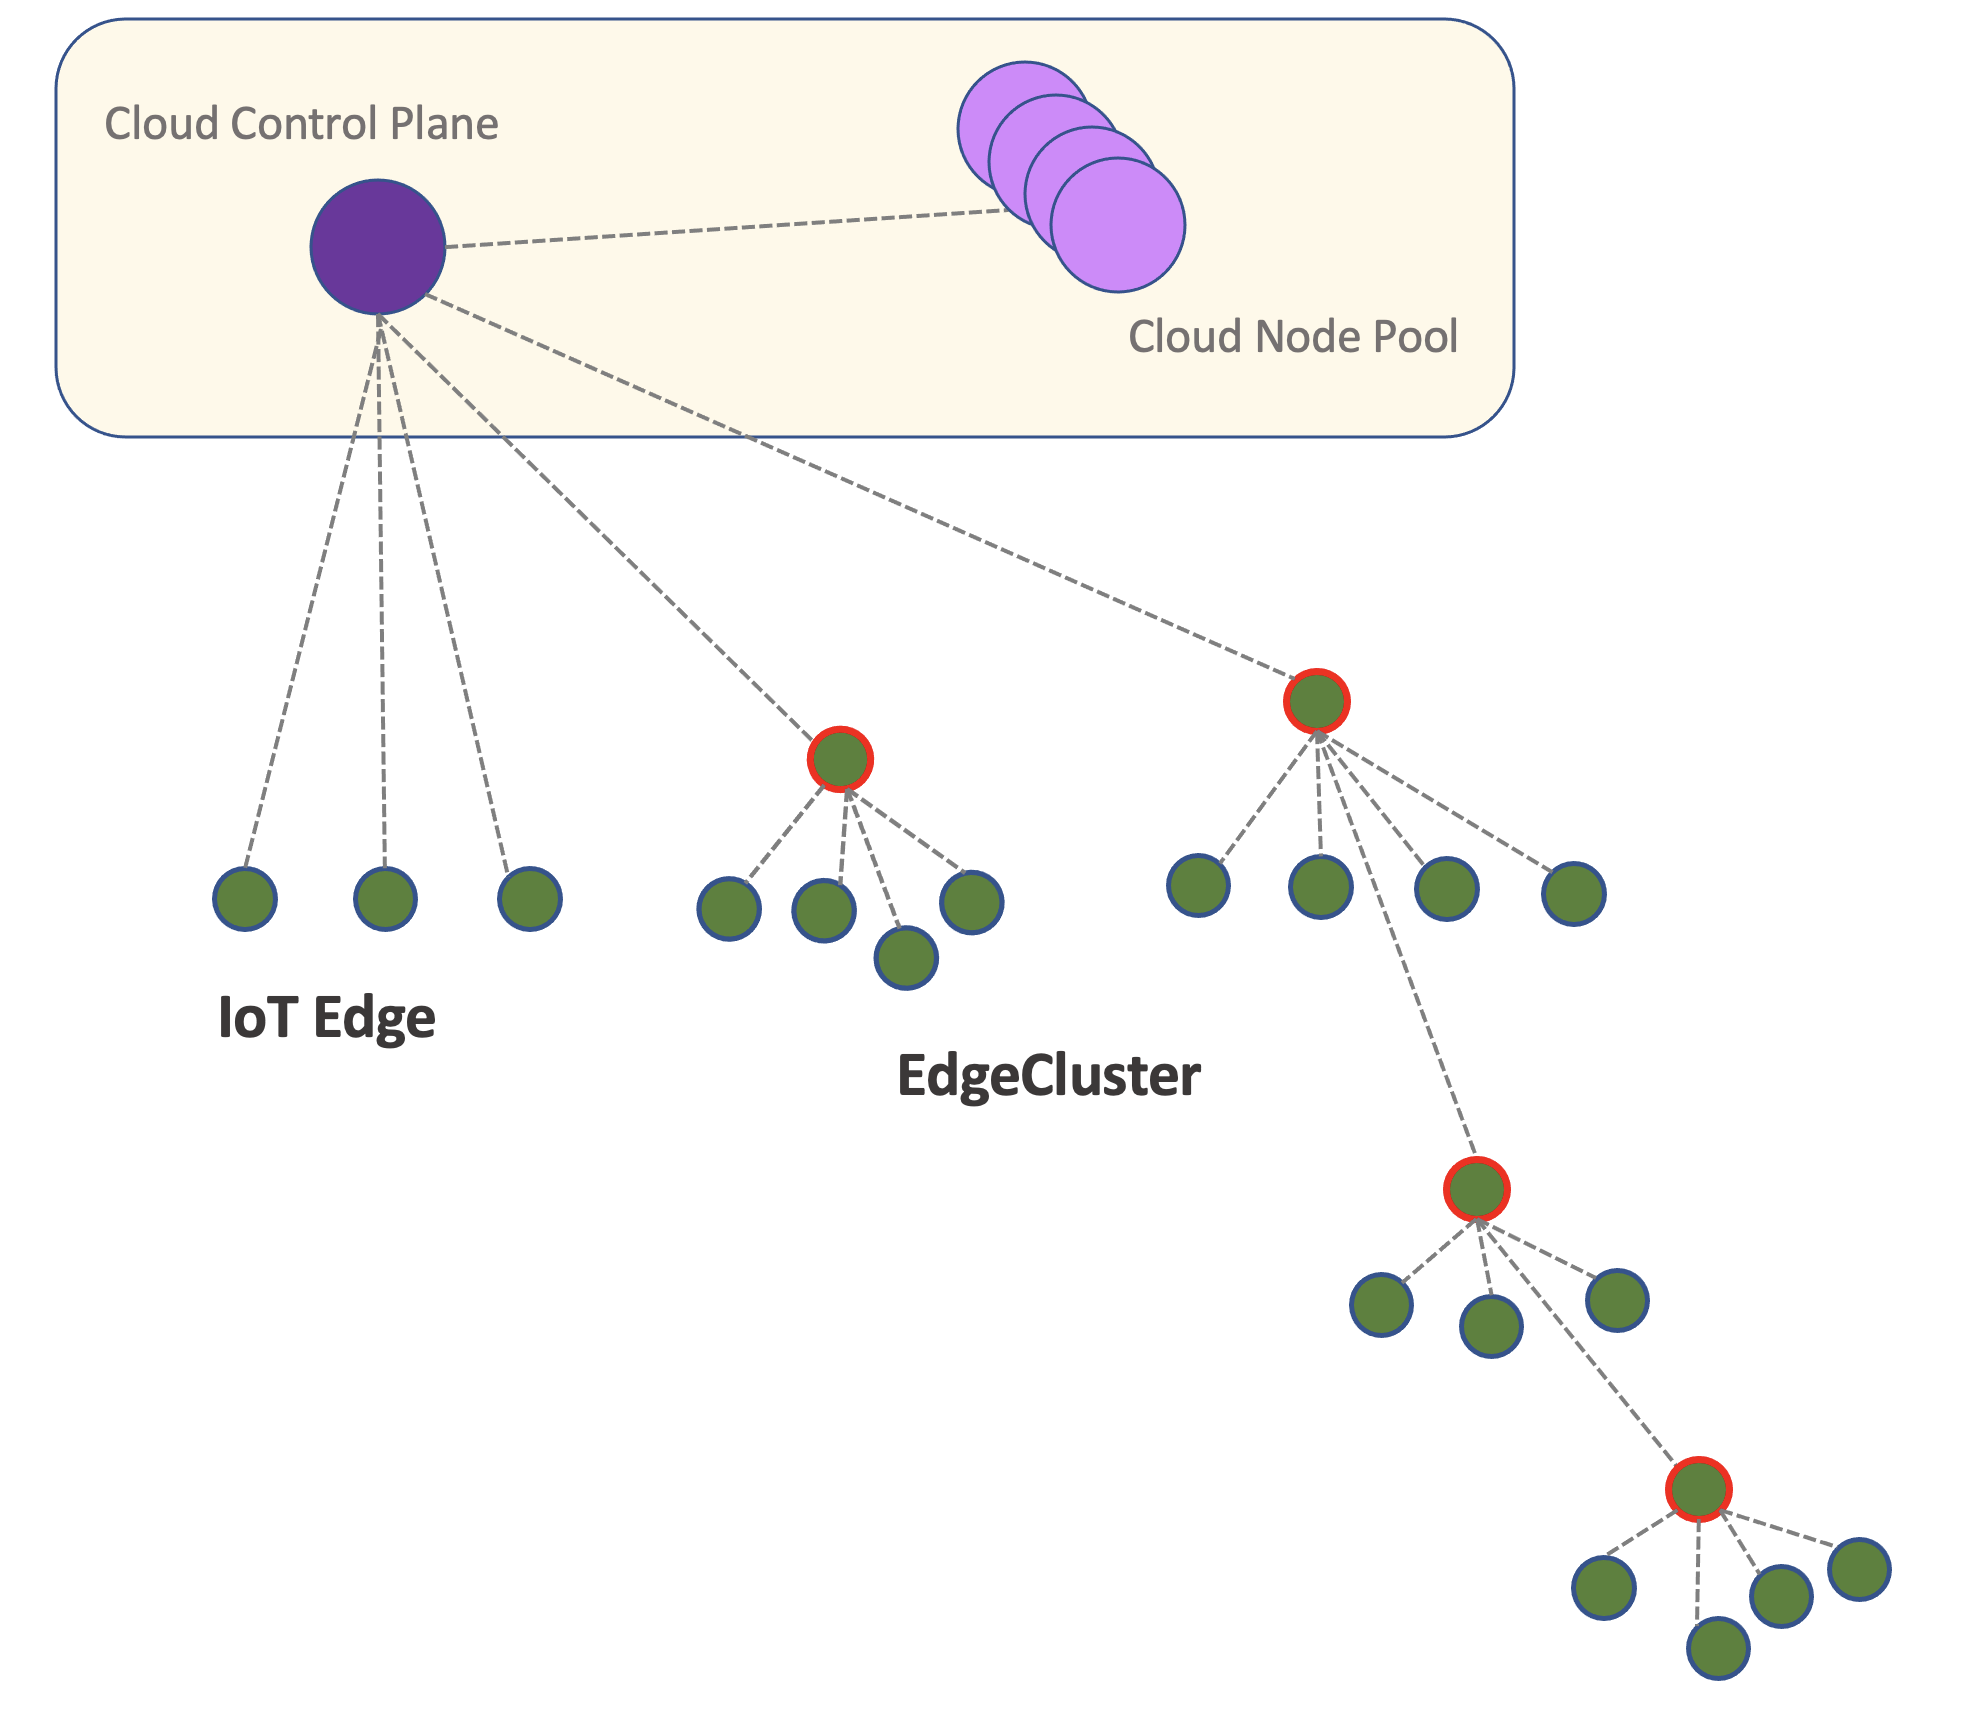
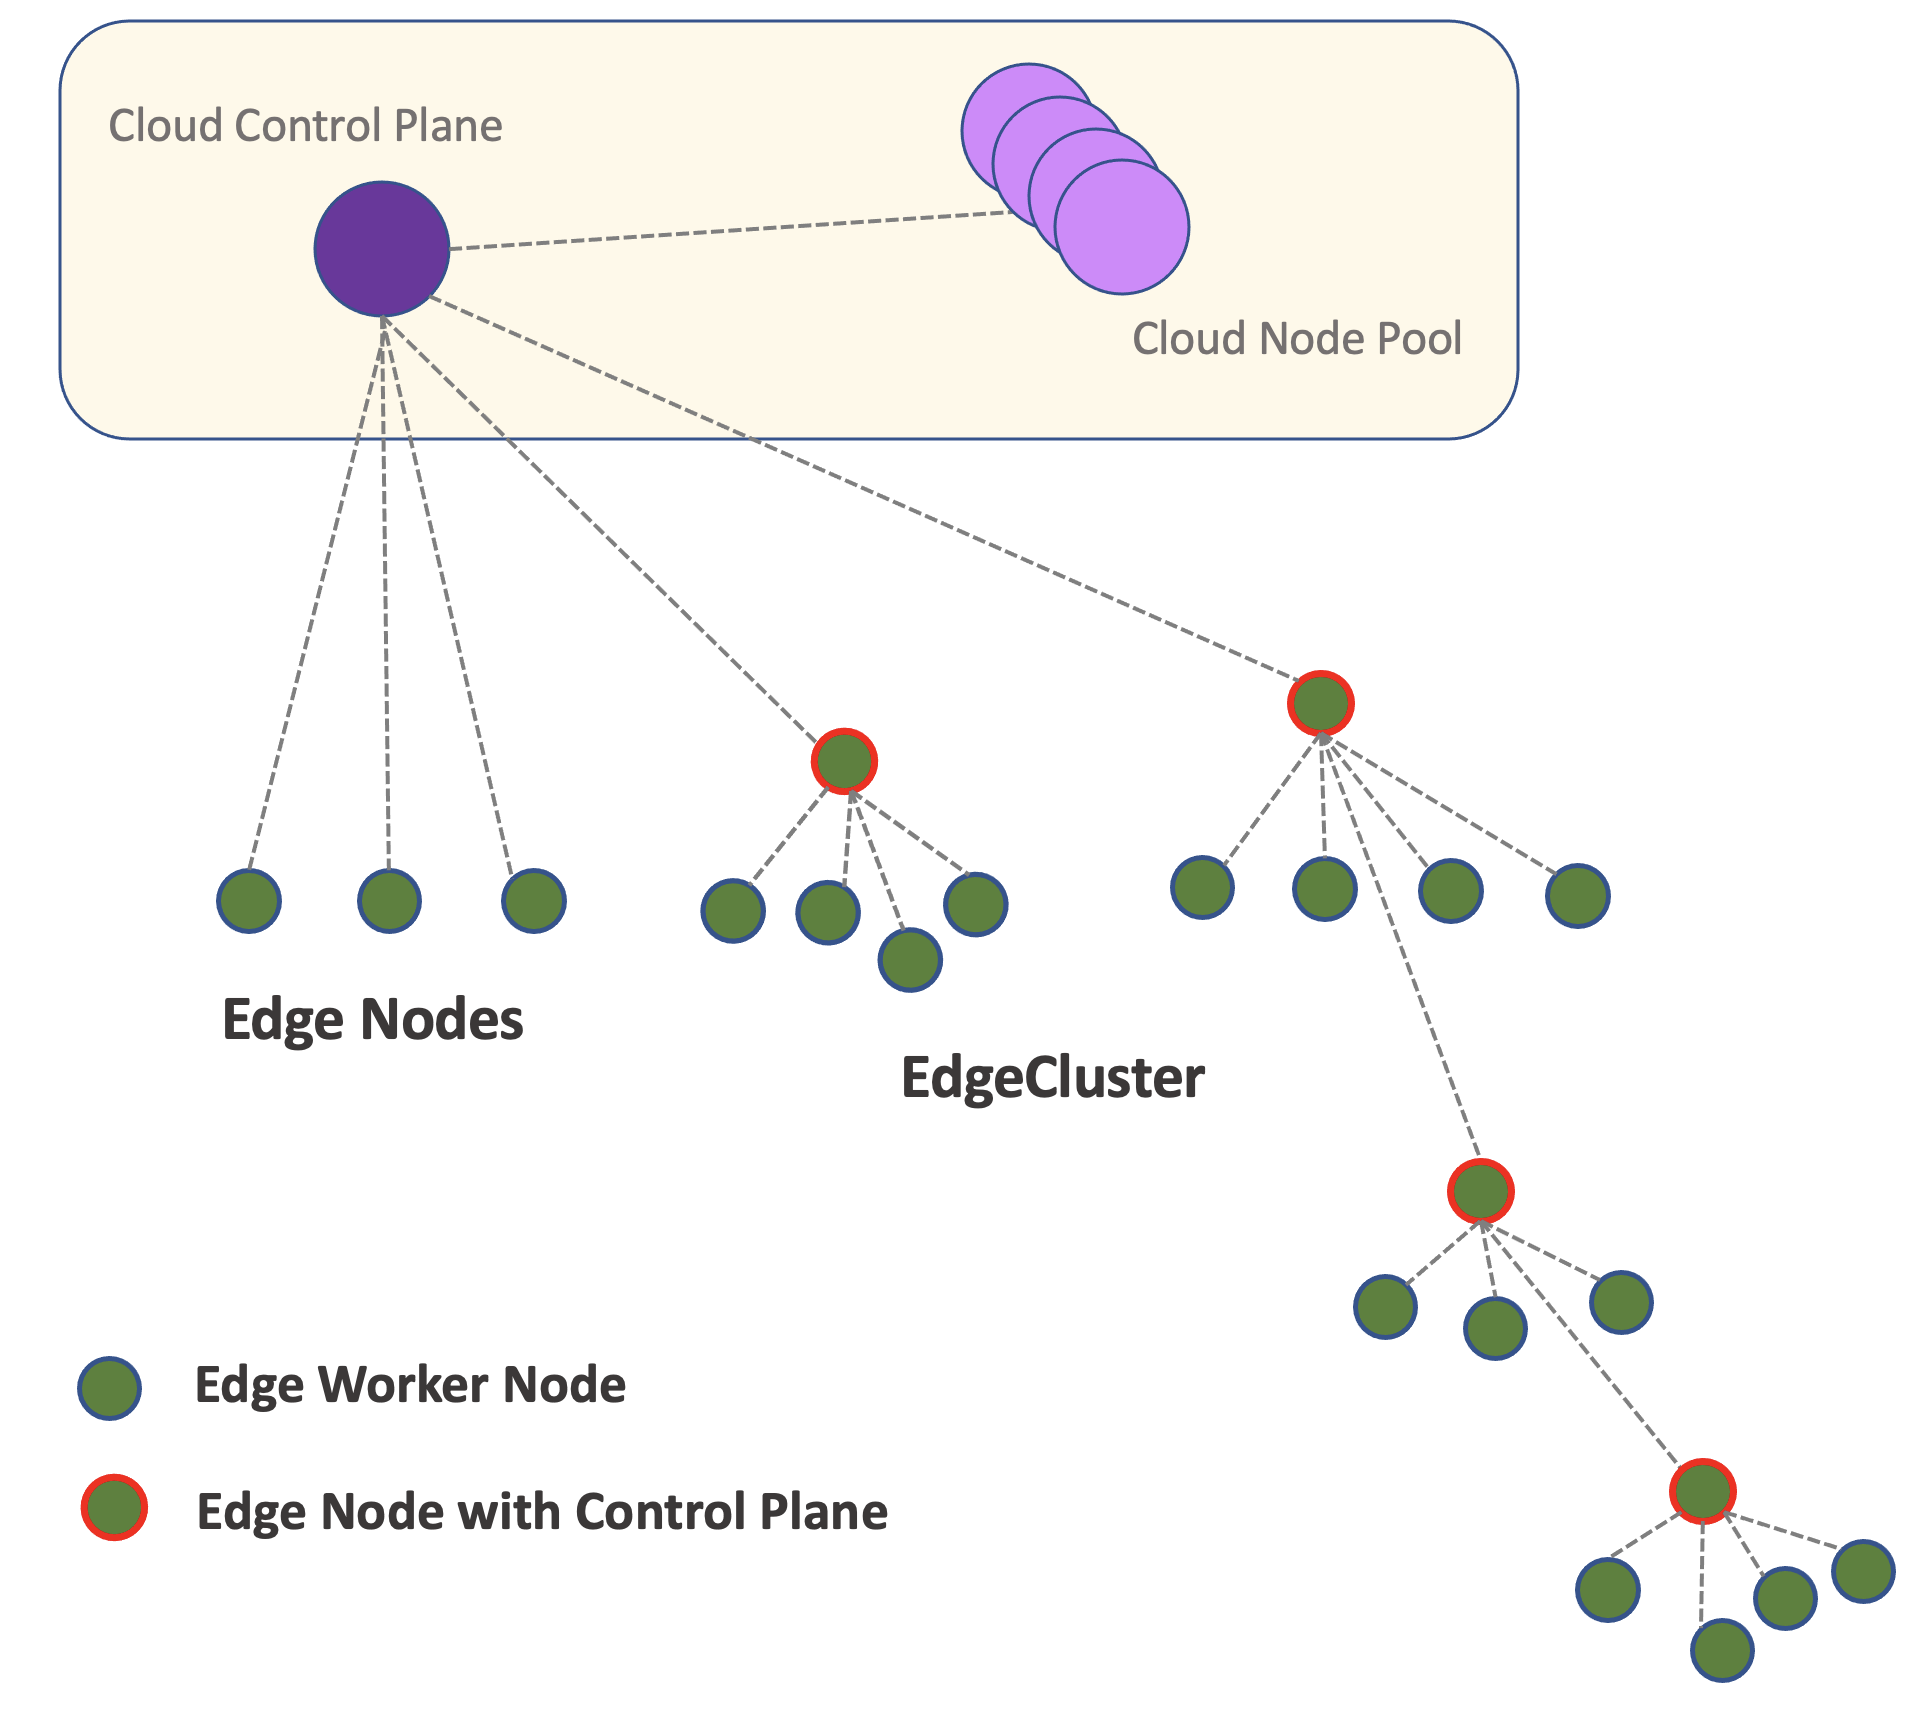
add design

diff --git a/design/530_design.md b/design/530_design.md
@@ -82,9 +82,16 @@ The following graph is an example of such edge model.
      alt="centaurus edge model"
      width="50%" />
 
-### Single-layer vs Hierarchy
+The m-ary tree model satisfies all four previously mentioned requirements. Each edge node is deployed with an "edge agent" component that maintains connection with control plane, runs Arktos workload, and caching messages from and to the control plane. It's worth noting that "control plane" here is not necessarily the Arktos in the cloud. It refers to the control plane which the current node connects to. 
 
-### Layered and Hierarchical Topology
+When network disconnects, workload continues running (condition 1). When a worker node in the edge cluster dies, its workloads could be migrated to other nodes in the same cluster (condition 2). And because of the control plane operates locally with the worker nodes, condition 3 can also be achieved. 
+
+Being a tree structure, the layered and hierarchy nature of edge site topology can be expressed with great flexibility. Depending on use cases, edge environments could have vastely differnt requirements and restriction. The design of Centaurus edge strives to leave the choice to users by offering a flexible framework. As an example, The following graph shows two possible modes that edge clusters can be structured. Each triangle represents an cluster. Mode 1 is a "flat" structure where each edge cluster directly connects to the cloud control plane. This structure, similar to federation, could benefit the case where clusters are managed centrally from the cloud, and each cluster has network connectivity to the cloud via public internet. In comparison, in mode 2, edge clusters are locally connected in a hierarchy, and only a certain edge clusters are connect to the cloud. This mode maps more closely to scenarios where multiple edge clusters are managed from within an on-prem network boundary. Local management is available even when connection to the cloud is lost whereas in mode 1, user control relies on internet connection being accessible between the cloud and edge clusters.  
+
+<img src="images/layered-vs-flat.png"
+     alt="centaurus edge model"
+     width="70%" />
+
 
 ## Key Features
 
